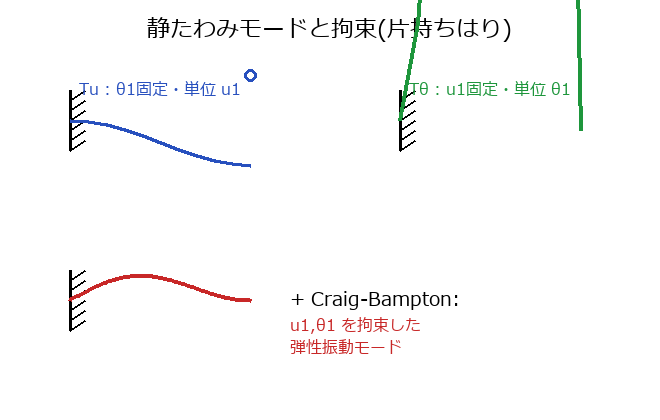
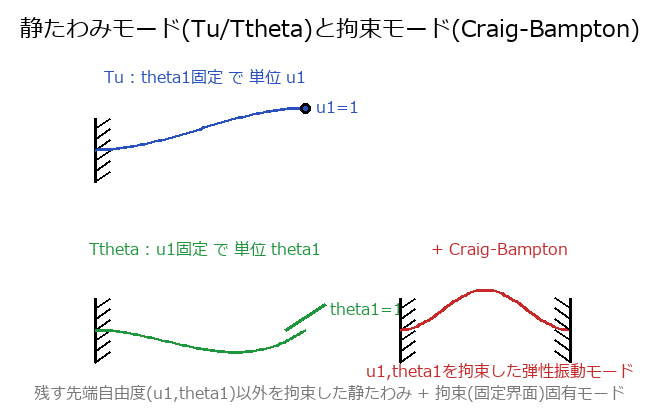
振動1級 図の追補: 8-21図の重なり修正・7-6/7-7に回答前の条件図
- 8-21(v1e8StaticDeflectionMode): 緑Ttheta曲線が図枠・図題に重なる問題を修正。
  ch8の図生成元が消失していたため tools/figs_vib1ch8.py を新規作成し、
  Tu/Ttheta の静たわみと Craig-Bampton(両端固定の弾性振動モード)を重なりなく再構成
- 7-6/7-7: 回答前の中立な条件図 v1e7GallopingSetup を追加(preFigureImage)。
  半円柱(平面が風上)・ばね支持・上下1自由度＋一様風のみ(力や現象は描かない)。
  tools/figs_vib1ch7.py に f_galloping_setup を追加、figures.ts 再生成

diff --git a/src/figures.ts b/src/figures.ts
@@ -919,6 +919,7 @@ export const FIGURES: Record<string, ImageSourcePropType> = {
   v1e7FlutterCoupling2DOF: require('../assets/figures/v1e7FlutterCoupling2DOF.png'),
   v1e7GallopingHalfCylinder: require('../assets/figures/v1e7GallopingHalfCylinder.png'),
   v1e7GallopingLiftDirection: require('../assets/figures/v1e7GallopingLiftDirection.png'),
+  v1e7GallopingSetup: require('../assets/figures/v1e7GallopingSetup.png'),
   v1e7HousnerLumpedMass: require('../assets/figures/v1e7HousnerLumpedMass.png'),
   v1e7KarmanCylinderResonance: require('../assets/figures/v1e7KarmanCylinderResonance.png'),
   v1e7KarmanVortexShedding: require('../assets/figures/v1e7KarmanVortexShedding.png'),
@@ -936,6 +937,7 @@ export const FIGURES: Record<string, ImageSourcePropType> = {
   v2e7DampingMaterialMesh: require('../assets/figures/v2e7DampingMaterialMesh.png'),
   v2e7DampingMechanisms: require('../assets/figures/v2e7DampingMechanisms.png'),
   v2e7DoorHinge: require('../assets/figures/v2e7DoorHinge.png'),
+  v2e7DoorHingePre: require('../assets/figures/v2e7DoorHingePre.png'),
   v2e7ExcavatorArm: require('../assets/figures/v2e7ExcavatorArm.png'),
   v2e7HatchbackBackdoor: require('../assets/figures/v2e7HatchbackBackdoor.png'),
   v2e7PowerplantMount: require('../assets/figures/v2e7PowerplantMount.png'),
@@ -1104,6 +1106,7 @@ export const FIGURES: Record<string, ImageSourcePropType> = {
   v2e8TireStiffVar: require('../assets/figures/v2e8TireStiffVar.png'),
   v2e8TireUnbalanceCurve: require('../assets/figures/v2e8TireUnbalanceCurve.png'),
   v2e8TriSplitNodes: require('../assets/figures/v2e8TriSplitNodes.png'),
+  v2e8TriSplitNodesPre: require('../assets/figures/v2e8TriSplitNodesPre.png'),
   v2e8VesselEmbed: require('../assets/figures/v2e8VesselEmbed.png'),
   // 第9章
   bc9Adiabatic: require('../assets/figures/bc9Adiabatic.png'),
@@ -1243,10 +1246,13 @@ export const FIGURES: Record<string, ImageSourcePropType> = {
   v2e9ExplicitSolver: require('../assets/figures/v2e9ExplicitSolver.png'),
   v2e9FFTSpectrum: require('../assets/figures/v2e9FFTSpectrum.png'),
   v2e9FirstOrderForm: require('../assets/figures/v2e9FirstOrderForm.png'),
+  v2e9FirstOrderFormAns: require('../assets/figures/v2e9FirstOrderFormAns.png'),
   v2e9ForwardBackward: require('../assets/figures/v2e9ForwardBackward.png'),
   v2e9IntegrationRules: require('../assets/figures/v2e9IntegrationRules.png'),
   v2e9LUDecomp: require('../assets/figures/v2e9LUDecomp.png'),
+  v2e9LUDecompAns: require('../assets/figures/v2e9LUDecompAns.png'),
   v2e9MatrixForm: require('../assets/figures/v2e9MatrixForm.png'),
+  v2e9MatrixFormAns: require('../assets/figures/v2e9MatrixFormAns.png'),
   v2e9PowerIteration: require('../assets/figures/v2e9PowerIteration.png'),
   v2e9RayleighDamping: require('../assets/figures/v2e9RayleighDamping.png'),
   v2e9SimilarityTransform: require('../assets/figures/v2e9SimilarityTransform.png'),
@@ -1390,7 +1396,6 @@ export const FIGURES: Record<string, ImageSourcePropType> = {
   v2e10RigidModes: require('../assets/figures/v2e10RigidModes.png'),
   v2e10RigidMount: require('../assets/figures/v2e10RigidMount.png'),
   v2e10SPL: require('../assets/figures/v2e10SPL.png'),
-  v2e10StiffnessRatio: require('../assets/figures/v2e10StiffnessRatio.png'),
   v2e10StrainEnergy: require('../assets/figures/v2e10StrainEnergy.png'),
   v2e10TimeHistory: require('../assets/figures/v2e10TimeHistory.png'),
   v2e10TorsionMode: require('../assets/figures/v2e10TorsionMode.png'),

diff --git a/tools/figs_vib1ch8.py b/tools/figs_vib1ch8.py
@@ -1,0 +1,59 @@
+# -*- coding: utf-8 -*-
+"""振動1級 第8章「数値計算技術」問題図。白地660x420線画。figlib共通。
+方針: 正確さ最優先・機構のみ・装飾禁止。数式ラベルはASCII(u1,theta1)で豆腐回避。
+※ 本ファイルは 8-21(静たわみモードと拘束/Craig-Bampton) の図の作り直し用に新規作成。
+   旧ch8生成元は消失していたため、問題文の内容から再構成した(回答後=helpful図)。"""
+import sys, math, os
+sys.path.insert(0, r"C:\Users\jwpsa\Documents\desktop\claude\CAE\tools")
+from figlib import *
+
+
+def cantilever(d, x0, y0, L, curve, col, tip_fixed=False):
+    """左端x0を固定壁(ハッチ)にした片持ちはり。curve(t)=たわみ量(上を正)。"""
+    wall(d, x0, y0 - 32, y0 + 32, side=1, n=6)
+    pts = [(x0 + t * L, y0 - curve(t)) for t in [i / 60 for i in range(61)]]
+    plot(d, 0, 0, pts, col, 3)
+    if tip_fixed:
+        wall(d, x0 + L, y0 - 32, y0 + 32, side=-1, n=6)
+
+
+# ================================================ 8-21 静たわみモードと拘束 (helpful)
+def f_static_deflection_mode():
+    im, d = new(); title(d, "静たわみモード(Tu/Ttheta)と拘束モード(Craig-Bampton)")
+
+    # Panel A: Tu = 単位 u1(先端並進)・theta1固定
+    ctext(d, 205, 78, "Tu : theta1固定 で 単位 u1", FT, BLUE)
+    cantilever(d, 95, 150, 210,
+               lambda t: 42 * (3 * t * t - 2 * t ** 3), BLUE)   # 0->1, 両端傾き0
+    node(d, 305, 150 - 42, 5, fill=BLUE); ctext(d, 316, 150 - 42, "u1=1", FT, BLUE, "lm")
+
+    # Panel B: Ttheta = 単位 theta1(先端回転)・u1固定
+    ctext(d, 205, 250, "Ttheta : u1固定 で 単位 theta1", FT, GREEN)
+    cantilever(d, 95, 330, 210,
+               lambda t: 150 * (t ** 3 - t * t), GREEN)          # 先端で0に戻る(回転のみ)
+    # 先端の回転を示す短い接線
+    d.line((285, 330, 325, 330 - 26), fill=GREEN, width=3)
+    ctext(d, 330, 330 - 20, "theta1=1", FT, GREEN, "lm")
+
+    # Panel C(右): Craig-Bampton = u1,theta1 を拘束した弾性振動モード(両端固定)
+    ctext(d, 500, 250, "+ Craig-Bampton", FT, RED)
+    cantilever(d, 400, 330, 170,
+               lambda t: 40 * (1 - math.cos(2 * math.pi * t)) / 2, RED, tip_fixed=True)
+    ctext(d, 500, 372, "u1,theta1を拘束した弾性振動モード", FT, RED)
+
+    note(d, "残す先端自由度(u1,theta1)以外を拘束した静たわみ + 拘束(固定界面)固有モード")
+    save(im, "v1e8StaticDeflectionMode")
+
+
+FUNCS = [
+    (f_static_deflection_mode, "v1e8StaticDeflectionMode"),
+]
+
+if __name__ == "__main__":
+    for fn, k in FUNCS:
+        try:
+            fn()
+        except Exception as e:
+            print("ERROR", k, repr(e))
+    miss = [k for _, k in FUNCS if not os.path.exists(os.path.join(OUT, k + ".png"))]
+    print("TOTAL", len(FUNCS), "MISSING", miss)

diff --git a/tools/figs_vib1ch7.py b/tools/figs_vib1ch7.py
@@ -231,6 +231,30 @@ def f_galloping_lift_dir():
     save(im, "v1e7GallopingLiftDirection")
 
 
+# ================================================ 7-6/7-7 配置図(回答前・中立) preFigure
+def f_galloping_setup():
+    im, d = new(); title(d, "配置図:ばね支持の半円柱(平面が風上)に一様風")
+    cx, cy = 360, 225
+    # 半円柱(平らな面を左=風上へ)
+    d.pieslice((cx - 40, cy - 55, cx + 70, cy + 55), -90, 90, outline=BLACK, width=3, fill=FILL1)
+    d.line((cx + 15, cy - 55, cx + 15, cy + 55), fill=BLACK, width=3)
+    ctext(d, cx + 20, cy, "半円柱", FT, GRAY, "lm")
+    # ばね吊り(上)
+    spring(d, cx + 15, cy - 55, cx + 15, cy - 120, coils=4, amp=9)
+    hwall(d, cx - 40, cx + 70, cy - 124, side=-1, n=6)
+    ctext(d, cx + 40, cy - 92, "ばね k", FT, GRAY, "lm")
+    # 一様風(左から)
+    for yy in (cy - 35, cy, cy + 35):
+        arrow(d, 80, yy, 205, yy, GRAY, 2, 11)
+    ctext(d, 120, cy - 58, "一様風 V", FS, GRAY)
+    # 上下1自由度(与条件・中立=灰色。力や成長は描かない)
+    arrow(d, cx + 105, cy - 28, cx + 105, cy - 66, GRAY, 2, 10)
+    arrow(d, cx + 105, cy + 28, cx + 105, cy + 66, GRAY, 2, 10)
+    ctext(d, cx + 120, cy, "上下に運動", FT, GRAY, "lm")
+    note(d, "与条件のみ: 半円柱の平面が風上・ばね支持・上下1自由度(力や現象は示さない)")
+    save(im, "v1e7GallopingSetup")
+
+
 # ================================================ 7-8 カルマン渦の放出 (helpful)
 def f_karman_shedding():
     im, d = new(); title(d, "配管内円柱の後流:上下交互のカルマン渦が周期的に放出")
@@ -593,6 +617,7 @@ def main():
     f_sloshing_vs_bulging()
     f_galloping_half_cylinder()
     f_galloping_lift_dir()
+    f_galloping_setup()
     f_karman_shedding()
     f_karman_resonance()
     f_lock_in()
